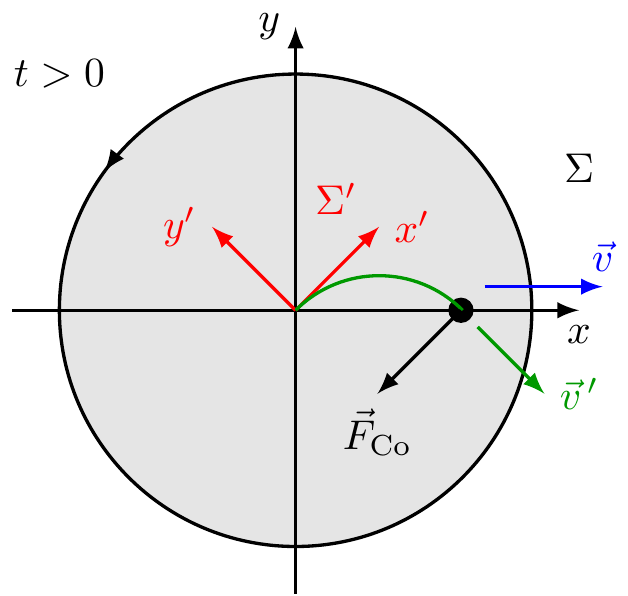
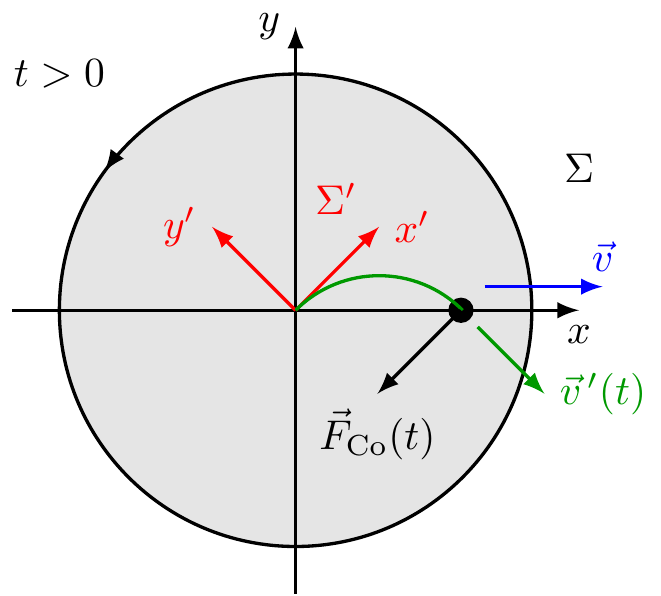
adding time dependence for coriolis force

diff --git a/mechanics/coriolis-force-2/coriolis-force-2.tex b/mechanics/coriolis-force-2/coriolis-force-2.tex
@@ -24,8 +24,8 @@
   \draw[fill] (0.7,0) circle (0.05);
   \draw[->,blue,thick] (0.8,0.1) -- +(0:0.5) node[above]{$\vel$};
   \draw[green,thick] (0,0) arc (135:45:0.5);
-  \draw[->,green,thick] (0.7,0)+(-45:0.1) -- +(-45:0.5) node[right] {$\velp$};
-  \draw[->,thick] (0.7,0) -- +(225:0.5) node[below] {$\FCo$};
+  \draw[->,green,thick] (0.7,0)+(-45:0.1) -- +(-45:0.5) node[right] {$\velp(t)$};
+  \draw[->,thick] (0.7,0) -- +(225:0.5) node[below] {$\FCo(t)$};
   \node at (1.2,0.6) {$\Sigma$};
   \node at (70:0.5) {\textcolor{red}{$\Sigma'$}};
 \end{tikzpicture}

diff --git a/mechanics/coriolis-force-2/coriolis-force-2_inverted.tex b/mechanics/coriolis-force-2/coriolis-force-2_inverted.tex
@@ -33,8 +33,8 @@
   \draw[fill] (0.7,0) circle (0.05);
   \draw[->,blue,thick] (0.8,0.1) -- +(0:0.5) node[above]{$\vel$};
   \draw[green,thick] (0,0) arc (135:45:0.5);
-  \draw[->,green,thick] (0.7,0)+(-45:0.1) -- +(-45:0.5) node[right] {$\velp$};
-  \draw[->,thick] (0.7,0) -- +(225:0.5) node[below] {$\FCo$};
+  \draw[->,green,thick] (0.7,0)+(-45:0.1) -- +(-45:0.5) node[right] {$\velp(t)$};
+  \draw[->,thick] (0.7,0) -- +(225:0.5) node[below] {$\FCo(t)$};
   \node at (1.2,0.6) {$\Sigma$};
   \node at (70:0.5) {\textcolor{red}{$\Sigma'$}};
 \end{tikzpicture}

diff --git a/mechanics.md b/mechanics.md
@@ -569,8 +569,8 @@
   \draw[fill] (0.7,0) circle (0.05);
   \draw[->,blue,thick] (0.8,0.1) -- +(0:0.5) node[above]{$\vel$};
   \draw[green,thick] (0,0) arc (135:45:0.5);
-  \draw[->,green,thick] (0.7,0)+(-45:0.1) -- +(-45:0.5) node[right] {$\velp$};
-  \draw[->,thick] (0.7,0) -- +(225:0.5) node[below] {$\FCo$};
+  \draw[->,green,thick] (0.7,0)+(-45:0.1) -- +(-45:0.5) node[right] {$\velp(t)$};
+  \draw[->,thick] (0.7,0) -- +(225:0.5) node[below] {$\FCo(t)$};
   \node at (1.2,0.6) {$\Sigma$};
   \node at (70:0.5) {\textcolor{red}{$\Sigma'$}};
 \end{tikzpicture}
@@ -2331,8 +2331,8 @@
   \draw[fill] (0.7,0) circle (0.05);
   \draw[->,blue,thick] (0.8,0.1) -- +(0:0.5) node[above]{$\vel$};
   \draw[green,thick] (0,0) arc (135:45:0.5);
-  \draw[->,green,thick] (0.7,0)+(-45:0.1) -- +(-45:0.5) node[right] {$\velp$};
-  \draw[->,thick] (0.7,0) -- +(225:0.5) node[below] {$\FCo$};
+  \draw[->,green,thick] (0.7,0)+(-45:0.1) -- +(-45:0.5) node[right] {$\velp(t)$};
+  \draw[->,thick] (0.7,0) -- +(225:0.5) node[below] {$\FCo(t)$};
   \node at (1.2,0.6) {$\Sigma$};
   \node at (70:0.5) {\textcolor{red}{$\Sigma'$}};
 \end{tikzpicture}
